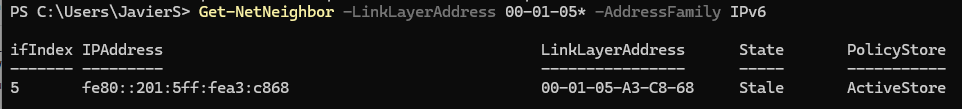
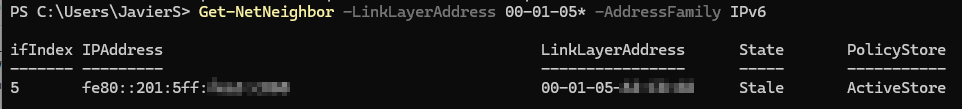
Acabar formateado markdown

Changed region(s): [[0.6237, 0.7156, 0.7484, 0.8532], [0.2183, 0.7156, 0.3119, 0.8807]]

diff --git a/readme.md b/readme.md
@@ -2,11 +2,13 @@
 Más información sobre comandos en [Beckhoff RT-Linux](https://infosys.beckhoff.com/content/1033/beckhoff_rt_linux/index.html?id=1171886970310160181) en Beckhoff Infosys
 
 ## Gestión de software de Beckhoff
-* Conectar desde Windows desde consola
+* Conectar remotamente desde otro pc con Windows desde consola PowerShell
   ```
   ssh Administrator@direccionIP
   ```
-* Buscar paquete (antes es necesario añadir el usuario de la web myBeckhoff al repositorio de Beckhoff )
+* Buscar paquete de TwinCAT
+  > [!NOTE]
+  > Antes es necesario añadir el usuario de la web myBeckhoff al repositorio de Beckhoff, se explica más adelante.
   ```
   apt search nombre_del_paquete
   ```
@@ -32,32 +34,34 @@ Algunos paquetes requieren configurar un servicio para que arranque automáticam
   apt list -i
   ```
 * Añadir credenciales de usuario de myBeckhoff (web) al repositorio de Beckhoff
-1.	Editar el archivo de configuración:
-sudo nano /etc/apt/auth.conf.d/bhf.conf
-2.	Añadir email de usuario y contraseña:
-  ```
-  machine deb.beckhoff.com
-  login [email redacted]
-  password xyz123
+  1.	Editar el archivo de configuración:
+      ```
+      sudo nano /etc/apt/auth.conf.d/bhf.conf
+      ```
+  2.	Añadir email de usuario y contraseña:
+      ```
+      machine deb.beckhoff.com
+      login [email redacted]
+      password xyz123
 
-  machine deb-mirror.beckhoff.com
-  login [email redacted]
-  password xyz123
-  ```
+      machine deb-mirror.beckhoff.com
+      login [email redacted]
+      password xyz123
+      ```
 *	Instalación de una versión específica de un paquete
-1.	Creación de una carpeta de descargas
-  ```
-  mkdir /Downloads
-  cd /Downloads
-  ```
-2.	Descarga del paquete directamente de la web del [repositorio](https://deb.beckhoff.com/debian/pool/main/t/) Debian de Beckhoff. Ej: descarga del paquete TwinCAT TF2000 HMI v14.4.124:
-  ```
-  curl -sLo https://deb.beckhoff.com/debian/pool/main/t/tf2000-hmi-server-14.4.124.0_arm64.db
-  ```
-3.	Instalación del paquete
-  ```
-  dpkg -i tf2000-hmi-server-14.4.124.0_arm64.db
-  ```
+  1.	Creación de una carpeta de descargas
+      ```
+      mkdir /Downloads
+      cd /Downloads
+      ```
+  2.	Descarga del paquete directamente de la web del [repositorio](https://deb.beckhoff.com/debian/pool/main/t/) Debian de Beckhoff. Ej: descarga del paquete TwinCAT TF2000 HMI v14.4.124:
+      ```
+      curl -sLo https://deb.beckhoff.com/debian/pool/main/t/tf2000-hmi-server-14.4.124.0_arm64.db
+      ```
+  3.	Instalación del paquete
+      ```
+      dpkg -i tf2000-hmi-server-14.4.124.0_arm64.db
+      ```
 
 ## Comandos de RT-linux habituales
 ### Gestión de cpu
@@ -75,88 +79,94 @@ sudo nano /etc/apt/auth.conf.d/bhf.conf
     ip a
     ```
   *	Descubrir dirección IP sin necesidad de conectar pantalla
-1.	Desde Windows ejecutar _ipconfig_. Localizar el identificador del adaptador
-  ```
-  Ethernet adapter Ethernet 5:
-    Connection-specific DNS Suffix .. : example.com
-    Link-local IPv6 Address . . . . . : fe80::5197:ef72:a352:b7f7%17
-  ```
-2.	Del adaptador de red encontrado antes en la configuración IPv6 (ej: 17), hacer ping por máscara de hardware ff02 usando ese identificador del adaptador: (nota: si no aparecen resultados puede estar bloqueado por firewall)
-  ```
-  ping ff02::1%17
-  ```
-3.	Alternativa: mostrar listado de máscara de direcciónes MAC de Beckhoff
-  ```
-  Get-NetNeighbor -LinkLayerAddress 00-01-05* -AddressFamily IPv6
-  ```
-  ![Captura de consola de Windows mostrando resultados por MAC](Beckhoff_RtLinux_explorar_por_MAC.png)
+  1.	Desde Windows ejecutar _ipconfig_. Localizar el identificador del adaptador
+      ```
+      Ethernet adapter Ethernet 5:
+        Connection-specific DNS Suffix .. : example.com
+        Link-local IPv6 Address . . . . . : fe80::5197:ef72:a352:b7f7%17
+      ```
+  2.	Del adaptador de red encontrado antes en la configuración IPv6 (ej: 17), hacer ping por máscara de hardware ff02 usando ese identificador del adaptador: (nota: si no aparecen resultados puede estar bloqueado por firewall)
+      ```
+      ping ff02::1%17
+      ```
+  3.	Alternativa: mostrar listado por máscara de direcciónes MAC de Beckhoff (00:01:05)
+      ```
+      Get-NetNeighbor -LinkLayerAddress 00-01-05* -AddressFamily IPv6
+      ```
+      Resultado: muestra las direcciones IPv6 que coincidan con la direccion MAC de Beckhoff
+      ![Captura de consola de Windows mostrando resultados por MAC](Beckhoff_RtLinux_explorar_por_MAC.png)
+      Luego para conectar por ssh desde la consola sería:
+      ```
+      ssh Administrator@fe80:201:5ff:xxx:xxx
+      ```
 •	Asignar dirección IP
 1.	Crear un archivo de configuración según el nombre del adaptador (ej: end0)
-  ```
-  sudo nano /etc/systemd/network/10-end0-static.network
-  ```
+    ```
+    sudo nano /etc/systemd/network/10-end0-static.network
+    ```
 2.	Asignar al adaptador de red una IP
-  ```
-  [Match]
-  Name=end0
+    ```
+    [Match]
+    Name=end0
 
-  [Network]
-  Address=192.168.1.100/24
-  ```
+    [Network]
+    Address=192.168.1.100/24
+    ```
 •	Añadir excepción a puerto en el firewall. Por defecto el puerto ADS Secure (8016) ya está añadido en la configuración.
 1.	Crear o modificar un archivo de configuración. P.ej: (50-tcsystemservice.conf)
-  ```
-  sudo nano /etc/nftables.conf.d/50-tcsystemservice.conf
-  ```
-2.	Añadir los puertos TCP o UDP
-  ```
-  table inet filter {
-    chain input {
-      #accept ADS
-      tcp dport 8016 accept
-      tpc dport 48898 accept
-      udp dport 48898 accept
-  
-      #TcHmi
-      tcp dport 2020 accept
+    ```
+    sudo nano /etc/nftables.conf.d/50-tcsystemservice.conf
+    ```
+2.	Añadir los puertos TCP o UDP. Por ejemplo, se añaden puertos ADS 48898 (conexion sin cifrado) y el puerto 2020 para el Hmi Server
+    ```
+    table inet filter {
+      chain input {
+        #accept ADS
+        tcp dport 8016 accept
+        tpc dport 48898 accept
+        udp dport 48898 accept
+    
+        #TcHmi
+        tcp dport 2020 accept
+      }
     }
-  }
-  ```
+    ```
 3.	Recargar las listas del firewall
-  ```
-  sudo systemctl reload nftables
-  ```
+    ```
+    sudo systemctl reload nftables
+    ```
 4.	Visualizar qué puertos están abiertos
-  ```
-  sudo nft list ruleset
-  ```
+    ```
+    sudo nft list ruleset
+    ```
+
 ### Gestión de archivos
 •	Montar unidad usb
 1.	Buscar nombre de la unidad ejecutando:
-  ```
-  lsblk
-  ```
+    ```
+    lsblk
+    ```
 2.	Crear directorio donde se montará la unidad (p.ej: sdb1)
-  ```
-  sudo mkdir /media/usb1/
-  ```
+    ```
+    sudo mkdir /media/usb1/
+    ```
 3.	Montar la unidad:
-  ```
-  sudo mount /dev/sdb1 /media/usb1/
-  ```
+    ```
+    sudo mount /dev/sdb1 /media/usb1/
+    ```
 •	Copiar archivos
-  ```
-  cp -r /rutaDirectorio1/ /rutaDirectorio2/
-  ```
+    ```
+    cp -r /rutaDirectorio1/ /rutaDirectorio2/
+    ```
 •	Ir a un directorio
-  ```
-  cd /rutaAlDirectorio/
-  ```
+    ```
+    cd /rutaAlDirectorio/
+    ```
 •	Crear directorio
-  ```
-  mkdir nombreDirectorio
-  ```
+    ```
+    mkdir nombreDirectorio
+    ```
 •	Borrar directorio
-  ```
-  rm nombreDirectorio
-  ```
+    ```
+    rm nombreDirectorio
+    ```